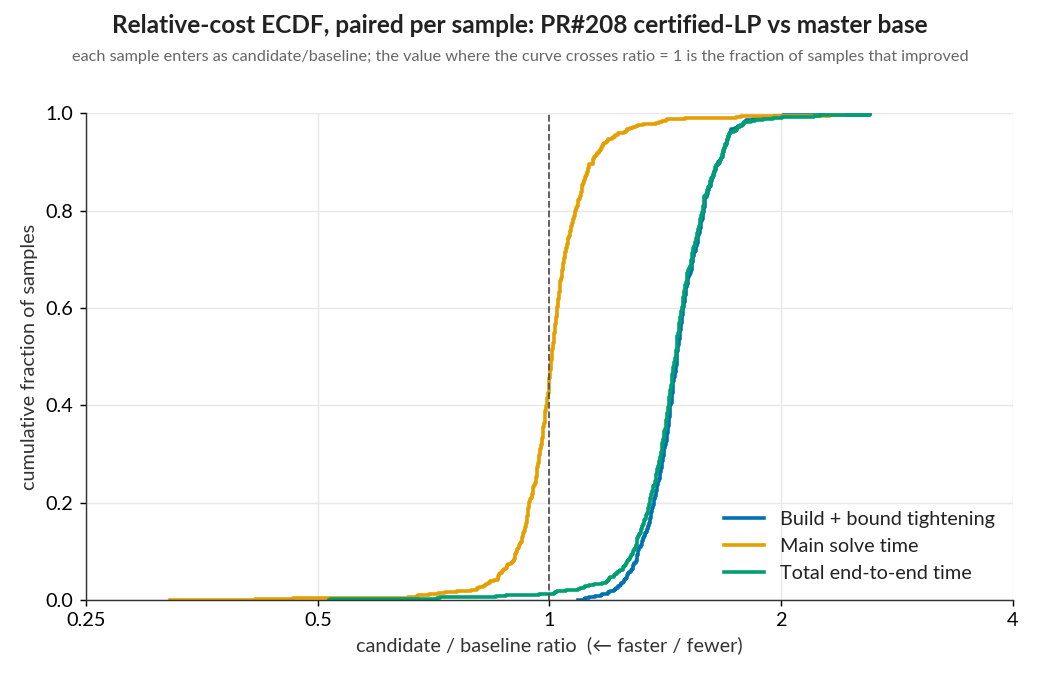
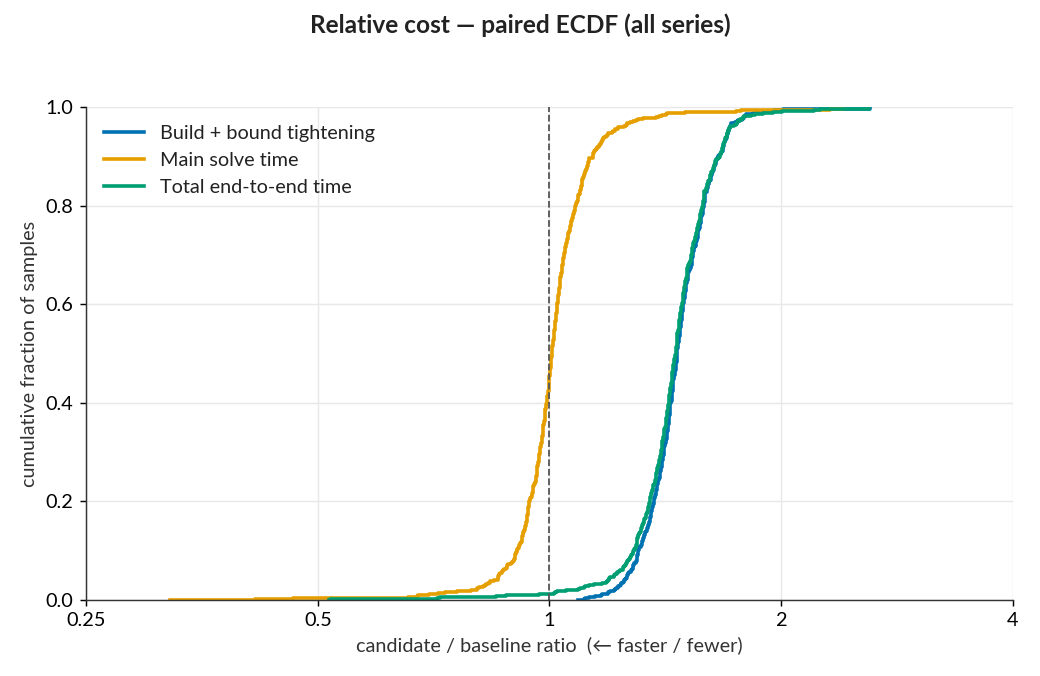
Refresh #208 report: new-style plots, solve-status/flips section, corrected verdict framing

diff --git a/pairs/2026-07-12-pr208-wk17a-lp/report.md b/pairs/2026-07-12-pr208-wk17a-lp/report.md
@@ -1,29 +1,28 @@
 # PR #208 — certified LP tightening: WK17a LP paired benchmark
 
-Paired before/after benchmark for [#208](https://github.com/vtjeng/MIPVerify.jl/pull/208)
-(certify LP tightening bounds from row duals). Distribution analysis added **retroactively** —
-the paired-analysis tooling post-dates the PR.
+PR #208 certifies LP tightening bounds from row duals — a correctness fix that regresses runtime.
+Paired before/after benchmark, analyzed **retroactively** (the paired-analysis tooling post-dates
+the merge). Raw per-sample data and dependency snapshots are in `baseline/` and `candidate/`.
 
-- **Baseline:** `master` `1bb2f9d82a762ac5f90beca10c7493d2e13d42ea`
-- **Candidate:** `bugfix/certified-lp-bounds` `f8e02c2c6e947b1b720b89ea9d25a8ba46387380`
-- **Settings (both):** `--samples 1:500 --tightening lp --main-time-limit 120 --norm-order Inf --log-level warn`
-- **Environment:** Julia 1.12.6, single thread, sequential runs, identical dependency snapshot
+- **Baseline** `master` `1bb2f9d82a762ac5f90beca10c7493d2e13d42ea`
+- **Candidate** `bugfix/certified-lp-bounds` `f8e02c2c6e947b1b720b89ea9d25a8ba46387380`
+- `--samples 1:500 --tightening lp --main-time-limit 120 --norm-order Inf --log-level warn`
+- Julia 1.12.6, single thread, sequential runs, identical dependency snapshot
[1 lines of base64/hex data omitted]
   workstation — not comparable to the CI-hosted `benchmark-results` series.
 
-## Headline
+---
 
-Certifying LP bounds is a correctness fix that **costs performance**: +29.8% aggregate wall clock,
-but the *typical* sample is worse than that (+45.8% median), because the aggregate is pulled down by
-a few large samples. The cost is entirely in **build + bound tightening** (median +46.6%, every
-sample slower); **main solve is unaffected** (median +0.7%, ~even split, and its small aggregate
-change is 89% concentrated in 10 samples — noise, not a systematic effect). 1 of 500 verdicts changed,
-in the candidate's favor.
+## Summary
 
-## Per-sample ratio distribution
+- **+29.8% aggregate wall clock**, but the typical sample is worse: **+45.8% per-sample median**. A few large samples pull the aggregate down.
+- The cost is entirely in **build + bound tightening**: **+46.6% median, 100% of samples regressed**.
+- **Main solve is effectively unaffected** (+0.7% median). Its small aggregate change is ~89% concentrated in the 10 biggest movers — noise.
+- **Verdicts:** 1 of 500 semantic outcomes changed, in the candidate's favor (sample 246, `time_limit_unresolved → certified`). Solve status also churned on 7 samples near the 120 s limit (mostly `OPTIMAL ↔ TIME_LIMIT`, net 2 more time-outs) — a symptom of the runtime regression, not new verdicts.
 
-Ratio = candidate / baseline; < 1 is faster/fewer. Improved/regressed use a ±1% band.
-Total end-to-end = Build + bound tightening + Main solve.
+## Detailed statistics
+
+### Per-sample ratio distribution
 
 | series | n | min | p10 | p25 | median | p75 | p90 | max | improved | regressed |
 |---|--:|--:|--:|--:|--:|--:|--:|--:|--:|--:|
@@ -31,11 +30,11 @@ Total end-to-end = Build + bound tightening + Main solve.
 | Main solve time | 492 | 0.32 | 0.91 | 0.96 | 1.01 | 1.06 | 1.14 | 2.40 | 40% | 48% |
 | Total end-to-end time | 492 | 0.52 | 1.28 | 1.37 | 1.46 | 1.56 | 1.66 | 2.60 | 1% | 99% |
 
-## Aggregate saving and concentration
+- `Ratio` = candidate ÷ baseline; < 1 = candidate faster.
+- `Build` = constructing the MIP model; `tightening` = the LP bound-tightening pass; `main solve` = the final verification MIP.
+- `Total` = `build` + `tightening` + `main solve`.
 
-Net saved = baseline − candidate total (positive = candidate cheaper). Pooled = candidate ÷ baseline
-total, the aggregate counterpart to the per-sample median. Concentration = share of the total
-absolute per-sample change from the 10 biggest movers.
+### Aggregate saving and concentration
 
 | series | baseline | candidate | net saved | pooled | top-10 concentration |
 |---|--:|--:|--:|--:|--:|
@@ -43,23 +42,47 @@ absolute per-sample change from the 10 biggest movers.
 | Main solve time | 1438 s | 1513 s | −74 s | 1.05 | 89% |
 | Total end-to-end time | 3772 s | 4895 s | −1123 s | 1.30 | 25% |
 
-## Plots
+- `Net saved` = baseline − candidate; positive = candidate cheaper.
+- `Pooled` = candidate total ÷ baseline total.
+- `Top-10 concentration` = share of total absolute per-sample change from the 10 biggest movers.
 
-Relative — paired ECDF of per-sample ratios:
+### Solve status and verdict flips
+
+| status | master `1bb2f9d` | PR#208 `f8e02c2` |
+|---|--:|--:|
+| INFEASIBLE | 475 | 476 |
+| OPTIMAL | 11 | 9 |
+| SKIPPED_PREDICTED_IN_TARGETED | 8 | 8 |
+| TIME_LIMIT | 6 | 7 |
+
+7 samples changed solve status (before → after); only sample 246 also changed its semantic outcome.
+
+| sample | solve status | semantic outcome |
+|--:|---|---|
+| 150 | `TIME_LIMIT` → `OPTIMAL` | — |
+| 242 | `OPTIMAL` → `TIME_LIMIT` | — |
+| 246 | `TIME_LIMIT` → `INFEASIBLE` | `time_limit_unresolved` → `certified_no_adversarial_example` |
+| 445 | `OPTIMAL` → `TIME_LIMIT` | — |
+| 446 | `OPTIMAL` → `TIME_LIMIT` | — |
+| 449 | `TIME_LIMIT` → `OPTIMAL` | — |
+| 496 | `OPTIMAL` → `TIME_LIMIT` | — |
+
+### Plots
+
+The tightening regression is systematic across the sample set, not outlier-driven; main solve sits on parity.
 
 ![ratio ECDF](plots/ratio_ecdf.png)
 
-Absolute — per-side runtime distributions:
+The extra wall-clock comes from tightening; main solve contributes no offsetting speedup, so the total tracks the tightening penalty.
 
 ![absolute runtime ECDF](plots/absolute_runtime_ecdf.png)
 
-Paired magnitude — candidate vs baseline per sample (below the diagonal = faster; shaded = slower):
+Tightening carries a near-constant multiplicative penalty; main solve shows almost no per-sample dispersion. The fix buys correctness (sample 246's certification), not runtime.
 
 ![magnitude scatter](plots/magnitude_scatter.png)
 
 ## Reproduce
 
-Raw per-sample data and dependency snapshots are in `baseline/` and `candidate/`. Regenerate the
-plots and tables with the paired-analysis tool:
+Regenerate the plots and tables from the raw per-sample CSVs:
 
     analyze_pair --baseline baseline --candidate candidate --out .

diff --git a/pairs/2026-07-12-pr208-wk17a-lp/improvement_stats.md b/pairs/2026-07-12-pr208-wk17a-lp/improvement_stats.md
@@ -1,0 +1,40 @@
+Paired per-sample analysis: **PR#208 f8e02c2** vs **master 1bb2f9d**  
+Ratio = candidate / baseline; < 1 is faster/fewer. Improved/regressed use a ±1% band.  
+**Total end-to-end = Build + bound tightening + Main solve** (build + bound tightening is defined as total − main solve, so the two components sum to the total).
+
+### Per-sample ratio distribution
+
+| series | n | min | p10 | p25 | median | p75 | p90 | max | improved | regressed |
+|---|--:|--:|--:|--:|--:|--:|--:|--:|--:|--:|
+| Build + bound tightening | 492 | 1.09 | 1.30 | 1.39 | 1.47 | 1.56 | 1.65 | 2.61 | 0% | 100% |
+| Main solve time | 492 | 0.32 | 0.91 | 0.96 | 1.01 | 1.06 | 1.14 | 2.40 | 40% | 48% |
+| Total end-to-end time | 492 | 0.52 | 1.28 | 1.37 | 1.46 | 1.56 | 1.66 | 2.60 | 1% | 99% |
+
+### Aggregate saving and concentration
+
+Net saved = baseline − candidate total (positive = candidate cheaper). Pooled = candidate ÷ baseline total, the aggregate counterpart to the per-sample median. Concentration = share of the total absolute per-sample change from the 10 biggest movers.
+
+| series | baseline | candidate | net saved | pooled | top-10 concentration |
+|---|--:|--:|--:|--:|--:|
+| Build + bound tightening | 2334 s | 3383 s | -1049 s | 1.45 | 4% |
+| Main solve time | 1438 s | 1513 s | -74 s | 1.05 | 89% |
+| Total end-to-end time | 3772 s | 4895 s | -1123 s | 1.30 | 25% |
+
+### Solve status (all samples)
+
+| status | master 1bb2f9d | PR#208 f8e02c2 |
+|---|--:|--:|
+| INFEASIBLE | 475 | 476 |
+| OPTIMAL | 11 | 9 |
+| SKIPPED_PREDICTED_IN_TARGETED | 8 | 8 |
+| TIME_LIMIT | 6 | 7 |
+
+### Verdict flips (7)
+
+- **sample 150**: status `TIME_LIMIT` → `OPTIMAL`
+- **sample 242**: status `OPTIMAL` → `TIME_LIMIT`
+- **sample 246**: status `TIME_LIMIT` → `INFEASIBLE`; outcome `time_limit_unresolved` → `certified_no_adversarial_example`
+- **sample 445**: status `OPTIMAL` → `TIME_LIMIT`
+- **sample 446**: status `OPTIMAL` → `TIME_LIMIT`
+- **sample 449**: status `TIME_LIMIT` → `OPTIMAL`
+- **sample 496**: status `OPTIMAL` → `TIME_LIMIT`